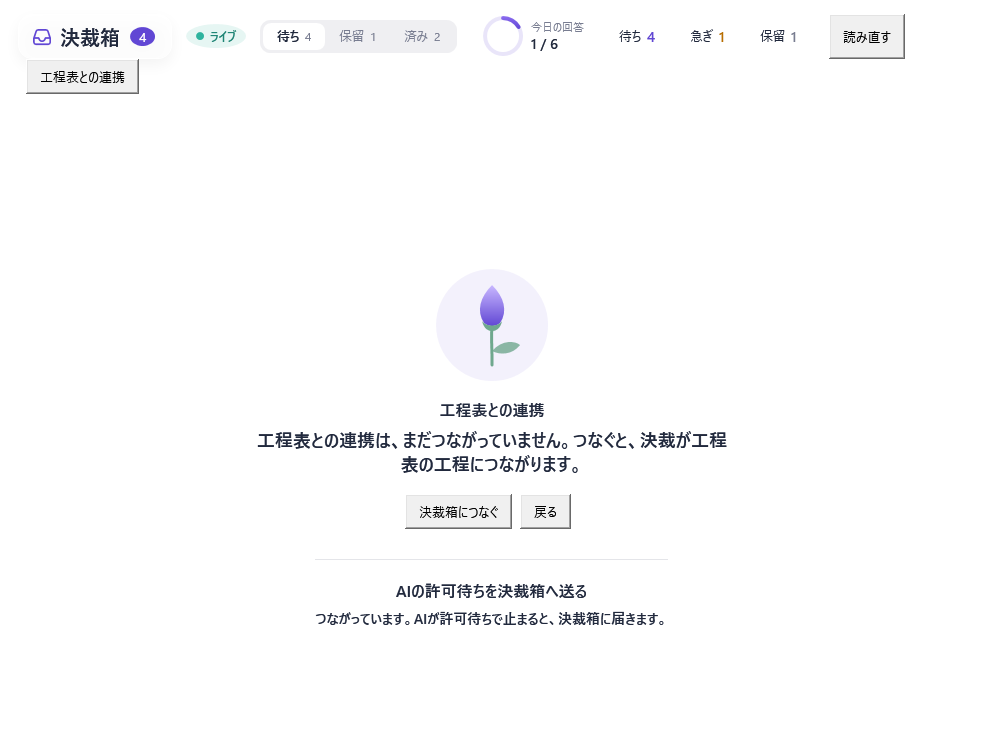
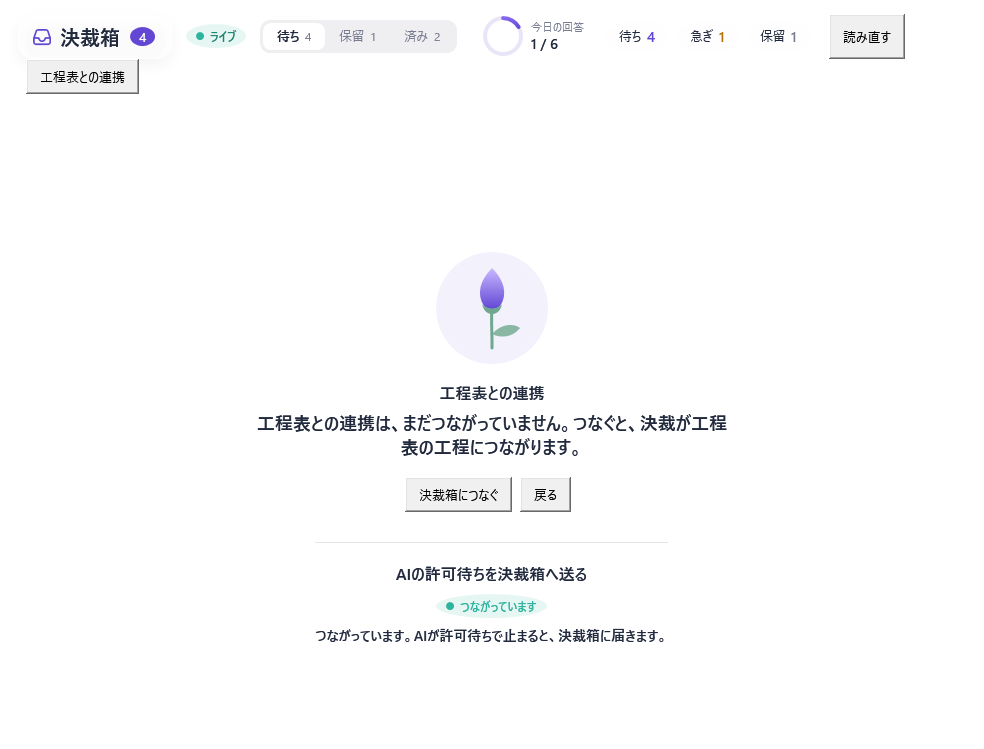
Windows seat-link view: the state badge (green linked, gray removed, red failed) above the sentence
Tronie 2026-11-24: the same chip as the 決裁箱 window's 「ライブ」 (a dot and a word). Core: SeatLinkText.Badge / BadgeLinked / BadgeRemoved / BadgeFailed. Screenshots: linked, removed, failed.

Changed region(s): [[0.2439, 0.4913, 0.7622, 0.7063], [0.3049, 0.737, 0.6707, 0.8598], [0.4878, 0.3685, 0.5488, 0.4913]]

diff --git a/windows/BellTeam.Tests/ApprovalsWindowTests.cs b/windows/BellTeam.Tests/ApprovalsWindowTests.cs
@@ -183,6 +183,8 @@ public sealed class ApprovalsWindowTests
         Assert.Contains(LogicalTree.Find<Button>(rig.Window.Content), button => button.Content as string == SeatLinkText.Cancel);   // 「やめる」 while it waits
         rig.Server.SeatLink = new System.Text.Json.Nodes.JsonObject { ["state"] = "linked" };                              // the Owner read the QR and approved: the 2 s watch reads it
         Until(() => Texts(rig.Window).Contains(SeatLinkText.Linked)); Assert.Empty(LogicalTree.Find<QrView>(rig.Window.Content));
+        Assert.Contains("つながっています", Texts(rig.Window));                                                                 // the green chip above the sentence, like 「ライブ」
+        Assert.Contains(LogicalTree.Find<Border>(rig.Window.Content), border => System.Windows.Automation.AutomationProperties.GetAutomationId(border) == "seat-link-badge");
         Assert.DoesNotContain(LogicalTree.Find<Button>(rig.Window.Content), button => System.Windows.Automation.AutomationProperties.GetAutomationId(button).StartsWith("ab:seat-link", StringComparison.Ordinal));   // linked: no button
     });
 
@@ -196,6 +198,7 @@ public sealed class ApprovalsWindowTests
         using var rig = Open("main"); Until(() => rig.Page.Settled);
         rig.Server.SeatLink = new System.Text.Json.Nodes.JsonObject { ["state"] = state, ["reason"] = reason };
         Press(Find(rig.Window, "link")); Until(() => Texts(rig.Window).Contains(line));
+        Assert.Contains(state == "removed" ? "つなぎが外れています" : "つなげませんでした", Texts(rig.Window));   // gray for removed, red for failed
         Press(Find(rig.Window, "seat-link:go"));   // もう一度つなぐ starts again
         Until(() => Texts(rig.Window).Contains(SeatLinkText.Steps));
     });

diff --git a/windows/BellTeam.App/ApprovalsWindow.cs b/windows/BellTeam.App/ApprovalsWindow.cs
@@ -485,6 +485,12 @@ internal sealed class ApprovalsPage : Grid
         var section = new StackPanel { Margin = new Thickness(0, 30, 0, 0), HorizontalAlignment = HorizontalAlignment.Center, MaxWidth = 480 };
         section.Children.Add(new Border { Height = 1, Background = Brush(Muted, 0x33), Margin = new Thickness(0, 0, 0, 20) });
         var head = Text(SeatLinkText.Title, 16, Ink, FontWeights.Bold); head.TextAlignment = TextAlignment.Center; section.Children.Add(head);
+        if (SeatLinkText.Badge(seat) is { } badge)
+        {
+            var tint = badge.Tone switch { "ok" => Color.FromRgb(0x2E, 0xB3, 0x9E), "err" => Color.FromRgb(0xFF, 0x3B, 0x30), _ => Muted };   // the same chip as 「ライブ」: a dot and a word
+            var chip = Pill(Row(new System.Windows.Shapes.Ellipse { Width = 8, Height = 8, Fill = Brush(tint) }, Spaced(Text(badge.Text, 12, tint, FontWeights.SemiBold), 6)), tint, 0x1F);
+            chip.HorizontalAlignment = HorizontalAlignment.Center; chip.Margin = new Thickness(0, 10, 0, 0); System.Windows.Automation.AutomationProperties.SetAutomationId(chip, "seat-link-badge"); section.Children.Add(chip);
+        }
         var line = Text(SeatLinkText.Line(seat), 14, SeatLinkText.IsFailure(seat) ? Red : Ink, FontWeights.SemiBold, TextWrapping.Wrap); line.TextAlignment = TextAlignment.Center; line.Margin = new Thickness(0, 8, 0, 0);
         System.Windows.Automation.AutomationProperties.SetAutomationId(line, "seat-link-text"); section.Children.Add(line);
         if (seat.Waiting)

diff --git a/windows/BellTeam.Tests/SeatLinkTests.cs b/windows/BellTeam.Tests/SeatLinkTests.cs
@@ -29,6 +29,8 @@ public sealed class SeatLinkTests
         Assert.Equal(["つなぐ", "やめる", null, "もう一度つなぐ", "もう一度つなぐ", "もう一度つなぐ"], new[] { "none", "waiting", "linked", "removed", "failed", "unavailable" }.Select(state => SeatLinkText.Action(new() { State = state })));
         Assert.Equal([false, false, false, false, true, true], new[] { "none", "waiting", "linked", "removed", "failed", "unavailable" }.Select(state => SeatLinkText.IsFailure(new() { State = state })));   // red only for failed
         Assert.Equal("17:32まで（JST）", SeatLinkText.Until(DateTimeOffset.Parse("2026-11-24T08:32:00Z")));
+        // the state badge above the sentence: green linked, gray removed, red failed (and unavailable), none for none and waiting
+        Assert.Equal([null, null, ("つながっています", "ok"), ("つなぎが外れています", "muted"), ("つなげませんでした", "err"), ("つなげませんでした", "err")], new[] { "none", "waiting", "linked", "removed", "failed", "unavailable" }.Select(state => SeatLinkText.Badge(new() { State = state })));
     }
 
     [Fact]

diff --git a/windows/BellTeam.Core/SeatLink.cs b/windows/BellTeam.Core/SeatLink.cs
@@ -38,6 +38,9 @@ public static class SeatLinkText
         "failed" => link.Reason switch { "rejected" => Rejected, "expired" => Expired, _ => Unavailable },
         _ => Unavailable,
     };
+    // The state badge above the sentence (Tronie 2026-11-24, the 決裁箱 window's 「ライブ」 chip: a dot and a word): green for linked, gray for removed, red for failed (and when the body cannot say); none for none and waiting.
+    public const string BadgeLinked = "つながっています", BadgeRemoved = "つなぎが外れています", BadgeFailed = "つなげませんでした";
+    public static (string Text, string Tone)? Badge(SeatLink link) => link.State switch { "linked" => (BadgeLinked, "ok"), "removed" => (BadgeRemoved, "muted"), "failed" or "unavailable" => (BadgeFailed, "err"), _ => null };
     public static bool IsFailure(SeatLink link) => link.State is "failed" or "unavailable";
     /// <summary>The one button of a state, null when there is none (linked).</summary>
     public static string? Action(SeatLink link) => link.State switch { "none" => Connect, "waiting" => Cancel, "linked" => null, _ => Again };

diff --git a/docs/windows-architecture.md b/docs/windows-architecture.md
@@ -383,7 +383,7 @@ stateDiagram-v2
   removed --> waiting: 「もう一度つなぐ」
 ```
 
-- 見え方：[waiting](windows-seat-link-waiting.png)（QR・打ち込むコード・「決裁箱のアプリで、接続 → 「AIをつなぐ」 → 「QRコードを読む」を開き、…」・期限・やめる）と[linked](windows-seat-link-linked.png)。linkedとnoneは中立で、赤はfailed（と読めない時）だけ。linkedにボタンは無い。
+- 見え方：[waiting](windows-seat-link-waiting.png)（QR・打ち込むコード・「決裁箱のアプリで、接続 → 「AIをつなぐ」 → 「QRコードを読む」を開き、…」・期限・やめる）、[linked](windows-seat-link-linked.png)、[removed](windows-seat-link-removed.png)、[failed](windows-seat-link-failed.png)。文の上に、窓の「ライブ」と同じ形の状態の札（点＋言葉。トロニー2026-11-24）：linked＝緑「つながっています」、removed＝灰「つなぎが外れています」、failed（と読めない時）＝赤「つなげませんでした」（Coreの`SeatLinkText.Badge`）。noneとwaitingに札は無い。linkedにボタンは無い。
 - 読めない時：503・403・失敗は「いまはつなげません。少し待って、もう一度押してください。」と「もう一度つなぐ」。**routeの無い古いbody（404）は区画を出さない**（routeが入る前のビルドで、オーナーに紛らわしい行を見せないため）。
 - 答え（start・stop）は1回ずつで、送っている間はスピナー。パネルは縦に長くなるのでスクロールする。
 
